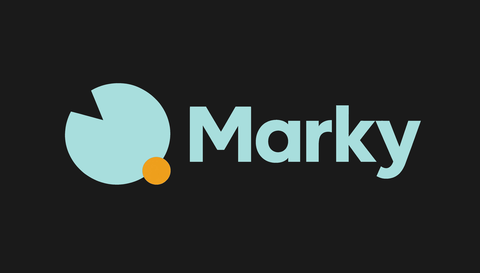
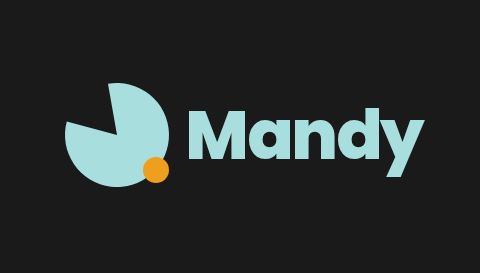
Rebrand Marky to Mandy
Every user-facing and in-source "Marky"/"marky" becomes "Mandy"/"mandy":
window titles, the PWA manifest and meta tags, the welcome document, README
and docs prose, code comments, package.json/package-lock.json, the pm2
process name, and the MARKY_PORT env var (now MANDY_PORT).

Three renames carry state rather than just spelling: the localStorage keys
(marky-theme, marky-outline, marky-current-file, marky-last-dir, marky-dirty,
marky-file-mtime) become mandy-*, so an existing user loads once with theme,
outline state and file association reset; the service-worker cache prefixes
become mandy-*, retired on activate; and sw.js VERSION goes to v1.26 to force
that retirement. Test suites asserting those key names moved with them.

References to the upstream project keep the name Marky: the Tommertom/marky
GitHub URL and D0 in docs/DECISIONS.md. The README now states the lineage
explicitly and adds a line on the rename itself. LICENSE.md keeps Tommertom's
copyright line, as MIT requires, with a new line for this line of work. The
README's bug-report link, which pointed at the upstream fork rather than this
project's repo, now points at erezschatz/marky.

The two welcome banners are regenerated with the new wordmark (same mark,
palette and dimensions; flat vector render, ~1/10th the file size).

The git remote URL and branch are unchanged — that move happens separately.

diff --git a/front/file-api.js b/front/file-api.js
@@ -12,10 +12,10 @@ const dialogSaveRow = document.getElementById("dialogSaveRow");
 const dialogFilename = document.getElementById("dialogFilename");
 const dialogSaveConfirm = document.getElementById("dialogSaveConfirm");
 
-const FILE_PATH_KEY = "marky-current-file";
-const LAST_DIR_KEY = "marky-last-dir";
-const DIRTY_KEY = "marky-dirty";
-const MTIME_KEY = "marky-file-mtime";
+const FILE_PATH_KEY = "mandy-current-file";
+const LAST_DIR_KEY = "mandy-last-dir";
+const DIRTY_KEY = "mandy-dirty";
+const MTIME_KEY = "mandy-file-mtime";
 
 let currentFilePath = null;
 // Edited since the last open or save. Autosave is unaware of the file on disk,
@@ -453,7 +453,7 @@ async function checkDiskChanged() {
 }
 
 // The one place the flag has teeth. Writing over a file that changed after we
-// read it destroys those changes, and Marky has no merge to offer — so this is
+// read it destroys those changes, and Mandy has no merge to offer — so this is
 // the last point at which the choice is still the user's.
 async function confirmOverwrite(filePath) {
   if (filePath !== currentFilePath || !fileMtime) return "overwrite";
@@ -476,7 +476,7 @@ async function confirmOverwrite(filePath) {
   // check above returns early.
   return ask(
     `${name} changed on disk since you opened it. Saving replaces whatever ` +
-      "changed it, and Marky has no merge to offer.",
+      "changed it, and Mandy has no merge to offer.",
     {
       title: "Overwrite the newer file?",
       severity: "warn",
@@ -569,7 +569,7 @@ function setServerAvailable(available) {
     btn.disabled = !available;
     btn.style.opacity = available ? "" : "0.5";
     btn.style.cursor = available ? "" : "not-allowed";
-    btn.title = available ? "" : "Unavailable: the Marky file server is not running";
+    btn.title = available ? "" : "Unavailable: the Mandy file server is not running";
   }
 }
 
@@ -587,7 +587,7 @@ async function checkServerAvailable() {
     // A static host may rewrite unknown paths to index.html and answer 200,
     // so only a well-formed JSON reply counts as "the server is there".
     const data = await res.json();
-    if (typeof data.home !== "string") throw new Error("Not the Marky server");
+    if (typeof data.home !== "string") throw new Error("Not the Mandy server");
     setServerAvailable(true);
   } catch {
     setServerAvailable(false);

diff --git a/front/app.js b/front/app.js
@@ -541,7 +541,7 @@ turndownService.addRule("listItem", {
 // the editable export's bundle alike.
 //
 // The trims are load-bearing, not tidiness: a title starting with an emoji
-// ("👋 Welcome to Marky") strips to a leading space, which then becomes a
+// ("👋 Welcome to Mandy") strips to a leading space, which then becomes a
 // leading hyphen in the filename.
 function slugifyTitle(text, fallback) {
   const slug = (text || "")
@@ -690,7 +690,7 @@ onToolbarAction("copy-md", async (button) => {
 });
 
 // New is what "no baggage" means: a document with no more history than the
-// one Marky opens with. This used to be what Clear did — see the comment on
+// one Mandy opens with. This used to be what Clear did — see the comment on
 // the "clear" handler below for why the two split (CHANGELOG.md, "New and
 // Clear are two different weights now").
 onToolbarAction("new", async () => {
@@ -973,7 +973,7 @@ function headingAnchors(root, stamp = false) {
   return anchors;
 }
 
-// An href out of a document Marky did not write — a file off disk, or an
+// An href out of a document Mandy did not write — a file off disk, or an
 // editable export that arrived by mail. `javascript:` through window.open would
 // run in the app's own origin, next to the file API, so this is an allowlist
 // rather than a blocklist.
@@ -1003,7 +1003,7 @@ function openExternalLink(href) {
   try {
     // No base, so a relative href throws and is left inert. That is the
     // documented first cut: resolving ./notes.md against the origin just 404s
-    // off the static handler, and opening it in Marky is a bigger feature. See
+    // off the static handler, and opening it in Mandy is a bigger feature. See
     // docs/TODO.md before making relative links do something.
     url = new URL(href);
   } catch {

diff --git a/front/index.html b/front/index.html
@@ -3,7 +3,7 @@
   <head>
     <meta charset="UTF-8" />
     <meta name="viewport" content="width=device-width, initial-scale=1.0" />
-    <title>Marky - Markdown Editor</title>
+    <title>Mandy - Markdown Editor</title>
     <meta
       name="description"
       content="A WYSIWYG markdown editor that edits local files through its own file server."
@@ -23,10 +23,10 @@
 
     <!-- Installable app -->
     <link rel="manifest" href="/manifest.json" />
-    <meta name="application-name" content="Marky" />
+    <meta name="application-name" content="Mandy" />
     <meta name="mobile-web-app-capable" content="yes" />
     <meta name="apple-mobile-web-app-capable" content="yes" />
-    <meta name="apple-mobile-web-app-title" content="Marky" />
+    <meta name="apple-mobile-web-app-title" content="Mandy" />
     <meta
       name="apple-mobile-web-app-status-bar-style"
       content="black-translucent"
@@ -36,7 +36,7 @@
     <script>
       (function () {
         // Get saved preference
-        const saved = localStorage.getItem("marky-theme");
+        const saved = localStorage.getItem("mandy-theme");
 
         // Get system preference
         const systemPrefersDark =
@@ -54,7 +54,7 @@
         // would render full-width and then shift once the column appeared.
         document.documentElement.setAttribute(
           "data-outline",
-          localStorage.getItem("marky-outline") === "open" ? "open" : "closed",
+          localStorage.getItem("mandy-outline") === "open" ? "open" : "closed",
         );
       })();
     </script>

diff --git a/tests/paste-check.html b/tests/paste-check.html
@@ -1,6 +1,6 @@
 <!doctype html>
 <meta charset="utf-8">
-<title>Marky paste-without-formatting check</title>
+<title>Mandy paste-without-formatting check</title>
 
 <!--
   The question TODO 1.3 opens with, which only a person with a real clipboard
@@ -58,7 +58,7 @@
 <div id="target" contenteditable="true">Click here, then paste.</div>
 
 <table id="log">
-  <thead><tr><th>Paste</th><th>Flavours offered</th><th>Marky would take</th><th>What that means</th></tr></thead>
+  <thead><tr><th>Paste</th><th>Flavours offered</th><th>Mandy would take</th><th>What that means</th></tr></thead>
   <tbody></tbody>
 </table>
 
@@ -126,9 +126,9 @@
     const parts = [];
     if (seen.plain && seen.shift) {
       parts.push(seen.plain.takesHtml && !seen.shift.takesHtml
-        ? "<b>This browser strips text/html for Shift+V.</b> Marky's plain branch already fires; nothing to build for it."
+        ? "<b>This browser strips text/html for Shift+V.</b> Mandy's plain branch already fires; nothing to build for it."
         : seen.shift.takesHtml
-        ? "<b>This browser keeps text/html for Shift+V.</b> Marky needs to notice the binding itself."
+        ? "<b>This browser keeps text/html for Shift+V.</b> Mandy needs to notice the binding itself."
         : "Both pastes came through bare — copy formatted content and try again.");
     }
     if (seen.shift) {

diff --git a/front/notify.js b/front/notify.js
@@ -224,7 +224,7 @@ function ask(message, options = {}) {
 
     const heading = document.createElement("h2");
     heading.className = "notify-dialog-title";
-    heading.textContent = title || "Marky";
+    heading.textContent = title || "Mandy";
     header.appendChild(heading);
 
     const dismissBtn = document.createElement("button");
@@ -304,7 +304,7 @@ function ask(message, options = {}) {
  * Separate from ask() rather than an option on it because the return contract
  * differs — ask() resolves to an action's `value`, this resolves to what was
  * typed — and the modal scaffold is deliberately a second copy: both builders
- * live in this file, which is the one place Marky's dialogs are built.
+ * live in this file, which is the one place Mandy's dialogs are built.
  */
 function askForInput(message, options = {}) {
   const {
@@ -343,7 +343,7 @@ function askForInput(message, options = {}) {
 
     const heading = document.createElement("h2");
     heading.className = "notify-dialog-title";
-    heading.textContent = title || "Marky";
+    heading.textContent = title || "Mandy";
     header.appendChild(heading);
 
     const dismissBtn = document.createElement("button");

diff --git a/front/static-export.js b/front/static-export.js
@@ -109,7 +109,7 @@ function documentBody() {
   // nothing can reach Turndown.
   headingAnchors(clone, true);
 
-  // Follows the sidebar toggle, which is the only switch there is until Marky
+  // Follows the sidebar toggle, which is the only switch there is until Mandy
   // grows a Settings pane. Built from the clone, so its hrefs and the ids just
   // stamped above come out of the same function over the same nodes and cannot
   // drift apart.
@@ -162,7 +162,7 @@ onToolbarAction("export-html", async () => {
     console.error("[Export] Could not read app.css:", err);
     notify(
       `Export failed: ${err.message}. ` +
-        "Exporting only works from the running Marky app.",
+        "Exporting only works from the running Mandy app.",
       { severity: "error" },
     );
     return;

diff --git a/front/sw.js b/front/sw.js
@@ -1,4 +1,4 @@
-// Marky service worker.
+// Mandy service worker.
 //
 // Strategy, and why:
 //   same-origin  → network-first, cache as fallback. Cache-first would serve a
@@ -8,9 +8,9 @@
 //                  and they are the heavy ones worth never re-fetching.
 //   /api/*       → never touched. Those are live file reads and writes.
 
-const VERSION = "v1.25";
-const SHELL_CACHE = `marky-shell-${VERSION}`;
-const RUNTIME_CACHE = `marky-runtime-${VERSION}`;
+const VERSION = "v1.26";
+const SHELL_CACHE = `mandy-shell-${VERSION}`;
+const RUNTIME_CACHE = `mandy-runtime-${VERSION}`;
 
 // The app shell: everything needed to boot the editor with no network.
 const SHELL_ASSETS = [

diff --git a/tests/browser-check.html b/tests/browser-check.html
@@ -1,11 +1,11 @@
 <!doctype html>
 <meta charset="utf-8">
-<title>Marky execCommand browser check</title>
+<title>Mandy execCommand browser check</title>
 
 <!--
   A manual harness for the half tests/execcommand.test.mjs cannot reach.
 
-  The Deno suite has no editing engine, so it can only assert what Marky does
+  The Deno suite has no editing engine, so it can only assert what Mandy does
   with execCommand's output, never what that output is. This page runs the real
   commands in a real contenteditable and reports the markup each engine
   produces, before and after front/execcommand.js normalises it.

diff --git a/front/execcommand.js b/front/execcommand.js
@@ -8,7 +8,7 @@
 // is not that they drift apart from here, it is that they are already apart and
 // nobody is going to fix it.
 //
-// Marky's answer is not to reimplement the commands. It is to normalise what
+// Mandy's answer is not to reimplement the commands. It is to normalise what
 // they leave behind, in one place, and only for the differences that actually
 // survive to the file — which is a much shorter list than it first looks,
 // because Turndown flattens most of them on the way out. <b> and <strong> are

diff --git a/server/src/server.ts b/server/src/server.ts
@@ -31,7 +31,7 @@ export const router = new Hono();
 router.get('/api/home', (c: Context) => c.json({ home: HOME_DIR }));
 
 // Lists directories plus markdown files, so the dialog can walk anywhere the
-// user can while still only offering files Marky can actually open.
+// user can while still only offering files Mandy can actually open.
 router.get('/api/browse', async (c: Context) => {
   const requestedPath = c.req.query('path') || HOME_DIR;
   const resolvedPath = path.resolve(requestedPath);

diff --git a/server/src/main.ts b/server/src/main.ts
@@ -1,8 +1,8 @@
 import { router } from './server.ts';
 
-const PORT = Number(Deno.env.get('MARKY_PORT') ?? 9130);
+const PORT = Number(Deno.env.get('MANDY_PORT') ?? 9130);
 
 // Bound to loopback on purpose: the file API can read and write anywhere the
 // user can, so it must never be reachable from the network.
 Deno.serve({ port: PORT, hostname: '127.0.0.1' }, router.fetch);
-console.log(`Marky running on http://localhost:${PORT}`);
+console.log(`Mandy running on http://localhost:${PORT}`);

diff --git a/front/toolbar.js b/front/toolbar.js
@@ -326,7 +326,7 @@ function focusItem(step, from) {
   items[next].focus();
 }
 
-// There is no app title in the bar. It was an <h1> reading "Marky Markdown
+// There is no app title in the bar. It was an <h1> reading "Mandy Markdown
 // Editor" and it cost a third of the toolbar's width to say something the tab
 // already says — and it took the page's only h1 with it, which belonged to the
 // document rather than to the chrome.
